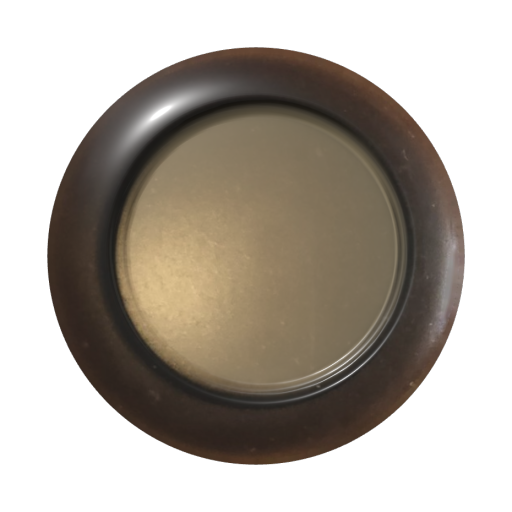
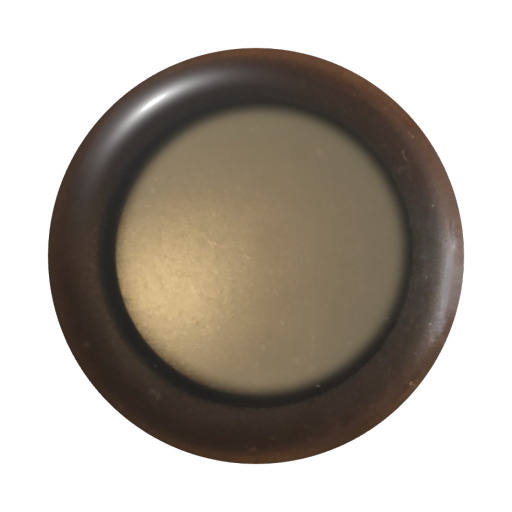
No.013 黒いラインを溝ではなく色だけに、表をなめらかな面に
Claude-Session: https://claude.ai/code/session_016FYwPZtfL2VXYvYEvMUPRr

diff --git a/buttons/013/model.js b/buttons/013/model.js
@@ -5,14 +5,8 @@ const TEX = {"front": "front.jpg", "back": "back.jpg", "sheen": "sheen.png"};
 function buildM() {
   const grp = new THREE.Group();
   const CX = .03, CY = .03;
-  const frontZ = (x, y) => {
-    const r = Math.min(1, Math.hypot(x, y)), rc = Math.hypot(x - CX, y - CY);
-    const rimH = .1 * Math.sin(Math.min(1, Math.max(0, (1 - r) / .3)) * Math.PI / 2);
-    const inner = .035 + .025 * Math.max(0, 1 - Math.pow(rc / .66, 2));
-    const t = Math.min(1, Math.max(0, (rc - .64) / .06));
-    const groove = -.025 * Math.exp(-Math.pow((rc - .69) / .018, 2));
-    return .02 + (inner * (1 - t) + rimH * t) + groove;
-  };
+  // smooth, gently rounded face: the dark ring is only colour, not a step or a groove
+  const frontZ = (x, y) => { const r = Math.min(1, Math.hypot(x, y)); const e = Math.max(0, (r - .8) / .2); return .02 + .07 * (1 - r * r * .35) - .06 * e * e; };
   const pm = pearlMat(tex(TEX.front), loader.load(TEX.sheen));
   pm.roughness = .32; pm.clearcoat = 1; pm.clearcoatRoughness = .06; pm.envMapIntensity = .4;
   const basePm = pm.onBeforeCompile;

diff --git a/index.html b/index.html
@@ -79,7 +79,7 @@
       <div class="cap"><span class="no">No. 012</span><span class="name">透明縁のワインレッド</span><span class="sub">ワインレッドの丸に、銀のラメをまとった五弁の花。まわりは淡い透明の縁</span></div>
     </a></li>
     <li><a class="card" href="buttons/013/">
-      <div class="well"><img src="buttons/013/thumb.png?v=aa0e19a050" width="512" height="512" alt="ココアのサテンのボタン" loading="lazy"></div>
+      <div class="well"><img src="buttons/013/thumb.png?v=45c3de89f0" width="512" height="512" alt="ココアのサテンのボタン" loading="lazy"></div>
       <div class="cap"><span class="no">No. 013</span><span class="name">ココアのサテン</span><span class="sub">つやのあるココア色のふちと、くぼんだ金茶のサテンの中心</span></div>
     </a></li>
   </ul>

diff --git a/buttons/013/index.html b/buttons/013/index.html
@@ -47,8 +47,8 @@
   <footer>表と裏の模様は、実物のボタンを撮った写真から切り抜いて貼っています。厚みや足の形は写真を見ながら合わせたもので、だいたいの形です。</footer>
 </div>
 <script src="https://cdn.jsdelivr.net/npm/three@0.147.0/build/three.min.js"></script>
-<script>window.ASSET_V = "8239e9775f";</script>
+<script>window.ASSET_V = "6dde6b75ef";</script>
 <script src="../../assets/zukan.js?v=32108acddd"></script>
-<script src="model.js?v=8239e9775f"></script>
+<script src="model.js?v=6dde6b75ef"></script>
 </body>
 </html>
